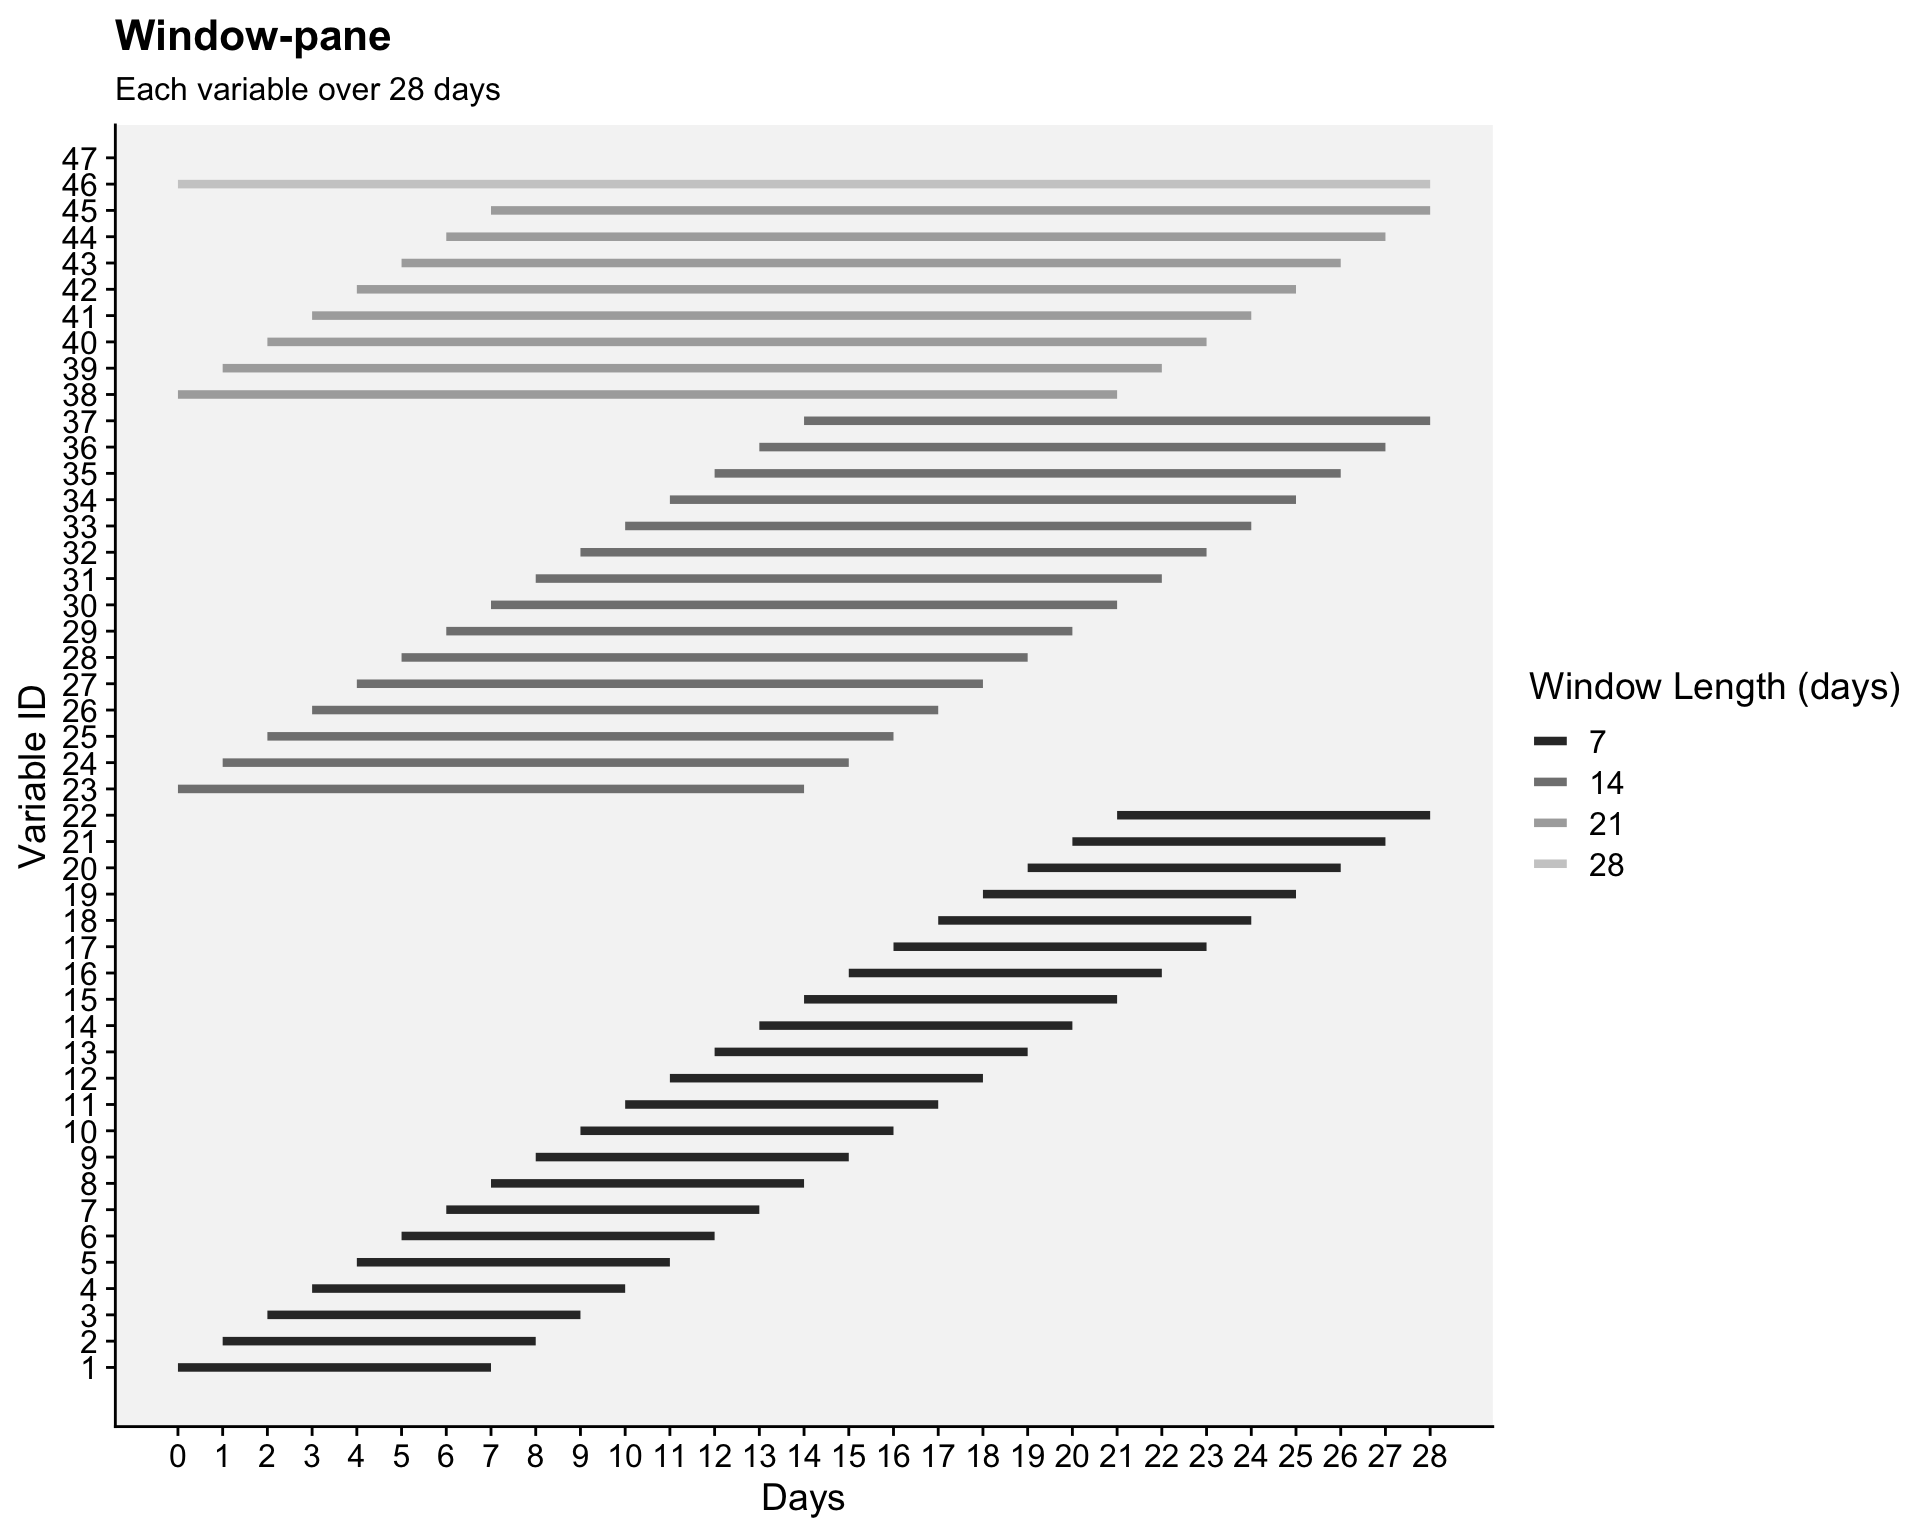
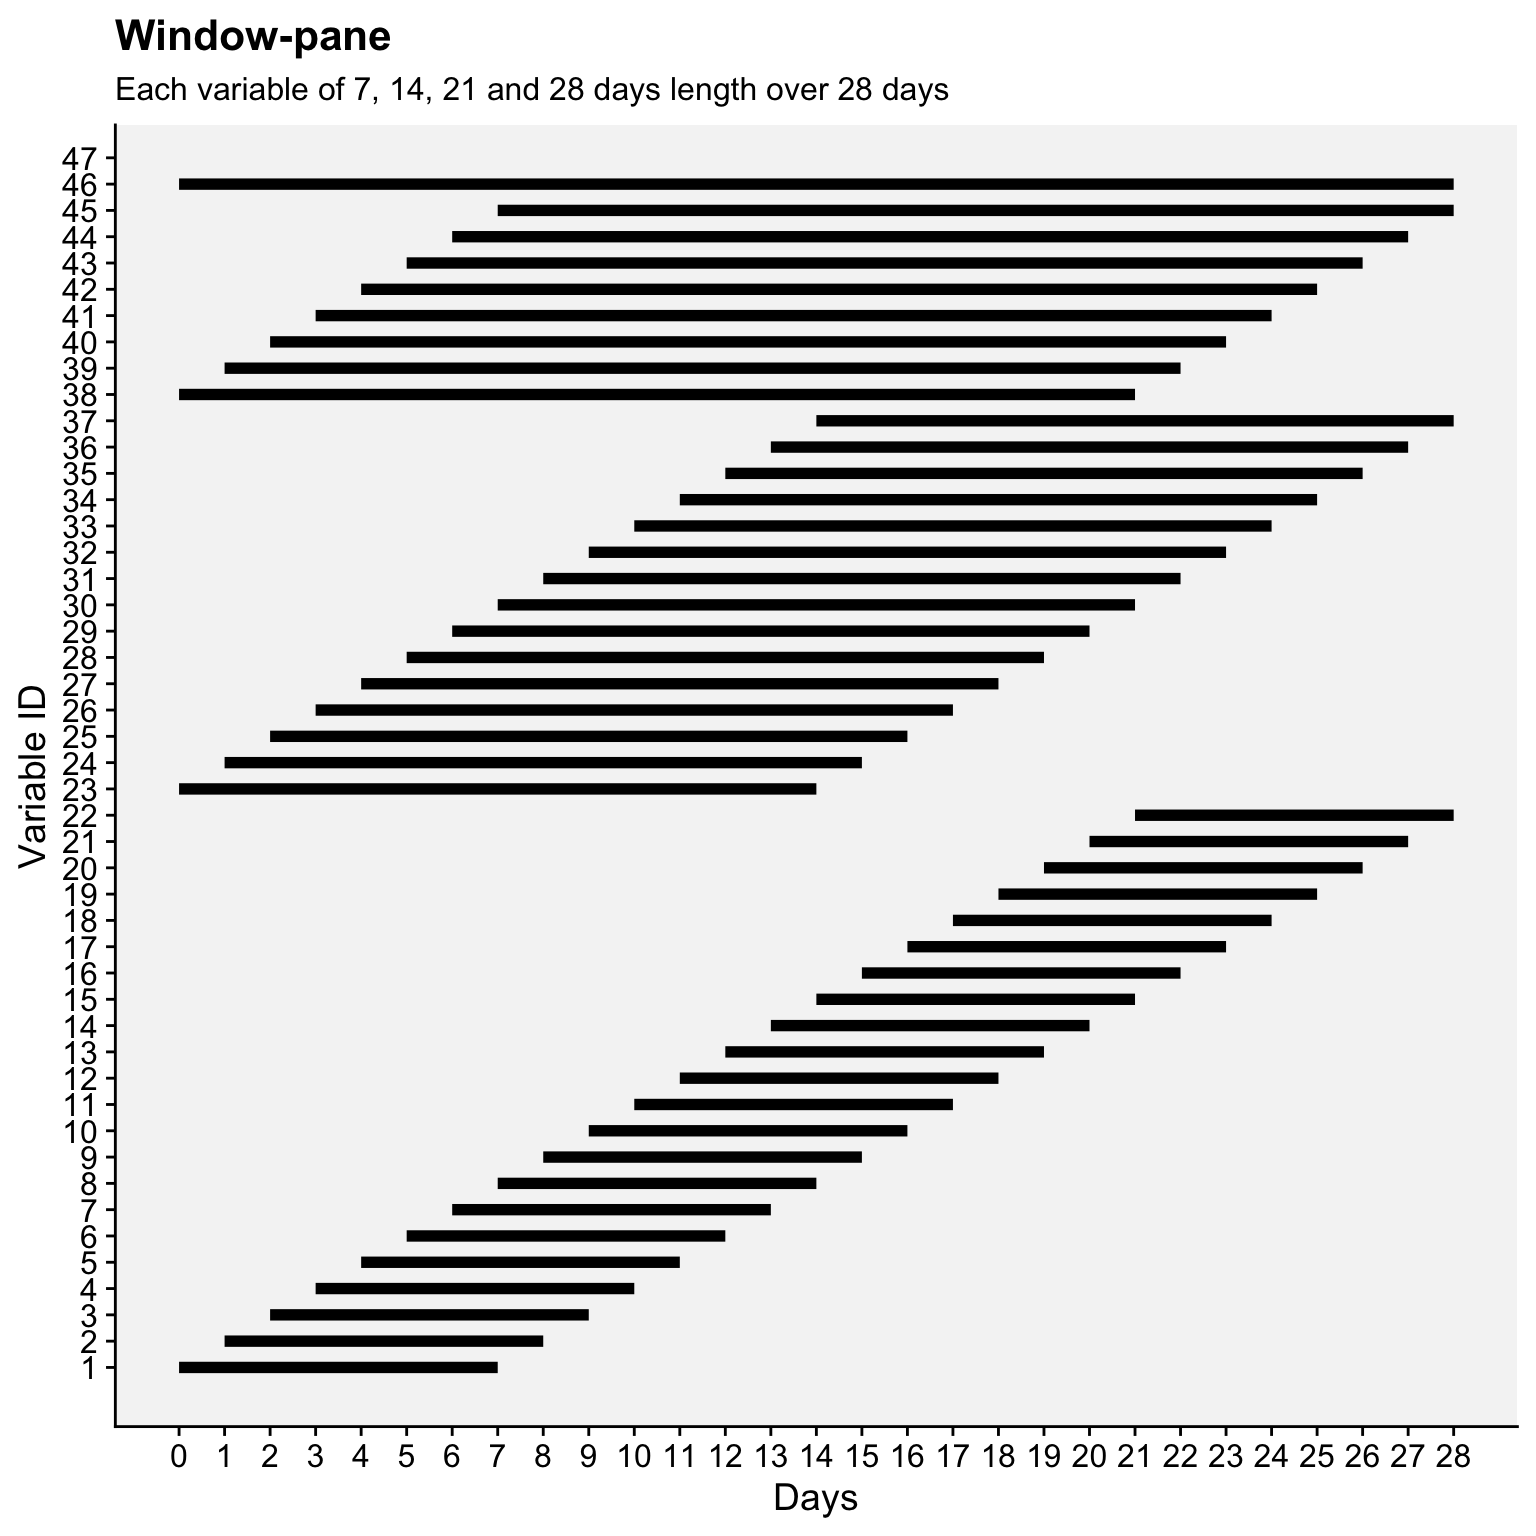
new paramaters plot

diff --git a/_book/prediction-disease-modeling.html b/_book/prediction-disease-modeling.html
@@ -1417,25 +1417,19 @@ Achieved convergence tolerance: 3.183e-06</code></pre>
 </div>
 <div class="cell">
 <div class="sourceCode cell-code" id="cb63"><pre class="sourceCode r code-with-copy"><code class="sourceCode r"><span id="cb63-1"><a href="#cb63-1" aria-hidden="true" tabindex="-1"></a>window_data <span class="sc">|&gt;</span> </span>
-<span id="cb63-2"><a href="#cb63-2" aria-hidden="true" tabindex="-1"></a>  <span class="fu">ggplot</span>(<span class="fu">aes</span>(<span class="at">x =</span> start, <span class="at">xend =</span> end, <span class="at">y =</span> var_id, <span class="at">yend =</span> var_id, <span class="at">color =</span> window_length)) <span class="sc">+</span></span>
-<span id="cb63-3"><a href="#cb63-3" aria-hidden="true" tabindex="-1"></a>  <span class="fu">geom_segment</span>(<span class="at">linewidth =</span> <span class="fl">1.5</span>) <span class="sc">+</span>  <span class="co"># Line segments for each window</span></span>
+<span id="cb63-2"><a href="#cb63-2" aria-hidden="true" tabindex="-1"></a>  <span class="fu">ggplot</span>(<span class="fu">aes</span>(<span class="at">x =</span> start, <span class="at">xend =</span> end, <span class="at">y =</span> var_id, <span class="at">yend =</span> var_id)) <span class="sc">+</span></span>
+<span id="cb63-3"><a href="#cb63-3" aria-hidden="true" tabindex="-1"></a>  <span class="fu">geom_segment</span>(<span class="at">linewidth =</span> <span class="dv">2</span>) <span class="sc">+</span>  <span class="co"># Line segments for each window</span></span>
 <span id="cb63-4"><a href="#cb63-4" aria-hidden="true" tabindex="-1"></a>  <span class="fu">scale_x_continuous</span>(<span class="at">breaks =</span> <span class="dv">0</span><span class="sc">:</span>max_days, <span class="at">limits =</span> <span class="fu">c</span>(<span class="dv">0</span>, max_days)) <span class="sc">+</span></span>
 <span id="cb63-5"><a href="#cb63-5" aria-hidden="true" tabindex="-1"></a>  <span class="fu">scale_y_continuous</span>(<span class="at">breaks =</span> <span class="dv">1</span><span class="sc">:</span>var_id) <span class="sc">+</span></span>
-<span id="cb63-6"><a href="#cb63-6" aria-hidden="true" tabindex="-1"></a>  <span class="fu">labs</span>(</span>
-<span id="cb63-7"><a href="#cb63-7" aria-hidden="true" tabindex="-1"></a>    <span class="at">title =</span> <span class="st">"Window-pane"</span>,</span>
-<span id="cb63-8"><a href="#cb63-8" aria-hidden="true" tabindex="-1"></a>    <span class="at">subtitle =</span> <span class="st">"Each variable over 28 days"</span>,</span>
-<span id="cb63-9"><a href="#cb63-9" aria-hidden="true" tabindex="-1"></a>    <span class="at">x =</span> <span class="st">"Days"</span>,</span>
-<span id="cb63-10"><a href="#cb63-10" aria-hidden="true" tabindex="-1"></a>    <span class="at">y =</span> <span class="st">"Variable ID"</span>,</span>
-<span id="cb63-11"><a href="#cb63-11" aria-hidden="true" tabindex="-1"></a>    <span class="at">color =</span> <span class="st">"Window Length (days)"</span></span>
-<span id="cb63-12"><a href="#cb63-12" aria-hidden="true" tabindex="-1"></a>  ) <span class="sc">+</span></span>
-<span id="cb63-13"><a href="#cb63-13" aria-hidden="true" tabindex="-1"></a>  r4pde<span class="sc">::</span><span class="fu">theme_r4pde</span>(<span class="at">font_size =</span> <span class="dv">14</span>) <span class="sc">+</span></span>
-<span id="cb63-14"><a href="#cb63-14" aria-hidden="true" tabindex="-1"></a>  <span class="fu">scale_color_grey</span>(<span class="at">start =</span> <span class="fl">0.2</span>, <span class="at">end =</span> <span class="fl">0.8</span>)<span class="sc">+</span></span>
-<span id="cb63-15"><a href="#cb63-15" aria-hidden="true" tabindex="-1"></a>  <span class="fu">theme</span>(<span class="at">legend.position =</span> <span class="st">"right"</span></span>
-<span id="cb63-16"><a href="#cb63-16" aria-hidden="true" tabindex="-1"></a>  )</span></code><button title="Copy to Clipboard" class="code-copy-button"><i class="bi"></i></button></pre></div>
+<span id="cb63-6"><a href="#cb63-6" aria-hidden="true" tabindex="-1"></a>  <span class="fu">labs</span>(<span class="at">title =</span> <span class="st">"Window-pane"</span>,</span>
+<span id="cb63-7"><a href="#cb63-7" aria-hidden="true" tabindex="-1"></a>    <span class="at">subtitle =</span> <span class="st">"Each variable of 7, 14, 21 and 28 days length over 28 days"</span>,</span>
+<span id="cb63-8"><a href="#cb63-8" aria-hidden="true" tabindex="-1"></a>    <span class="at">x =</span> <span class="st">"Days"</span>, <span class="at">y =</span> <span class="st">"Variable ID"</span>, <span class="at">color =</span> <span class="st">"Window Length (days)"</span>) <span class="sc">+</span></span>
+<span id="cb63-9"><a href="#cb63-9" aria-hidden="true" tabindex="-1"></a>  r4pde<span class="sc">::</span><span class="fu">theme_r4pde</span>(<span class="at">font_size =</span> <span class="dv">14</span>) <span class="sc">+</span></span>
+<span id="cb63-10"><a href="#cb63-10" aria-hidden="true" tabindex="-1"></a>  <span class="fu">theme</span>(<span class="at">legend.position =</span> <span class="st">"right"</span>)</span></code><button title="Copy to Clipboard" class="code-copy-button"><i class="bi"></i></button></pre></div>
 <div class="cell-output-display">
 <div>
 <figure class="figure">
-<p><img src="prediction-disease-modeling_files/figure-html/unnamed-chunk-33-1.png" class="img-fluid figure-img" width="960"></p>
+<p><img src="prediction-disease-modeling_files/figure-html/unnamed-chunk-33-1.png" class="img-fluid figure-img" width="768"></p>
 </figure>
 </div>
 </div>
